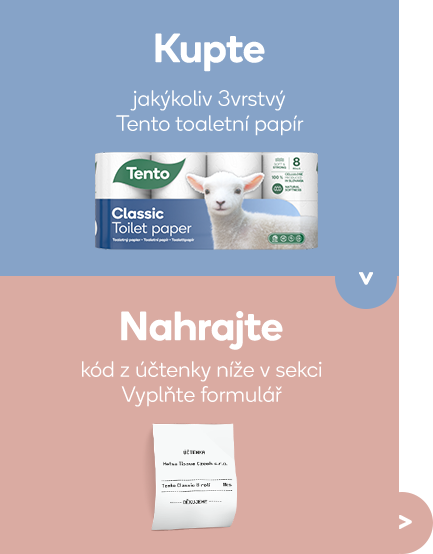
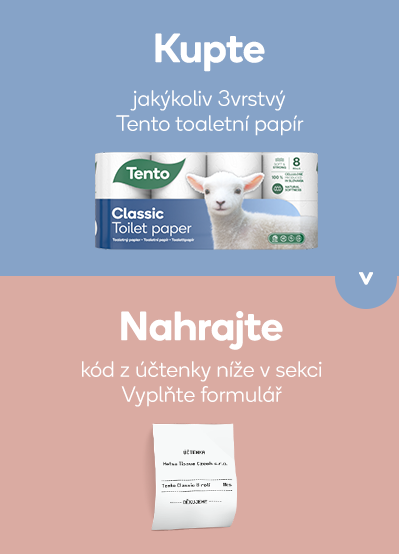
sp fix5

diff --git a/html/assets/css/style.css b/html/assets/css/style.css
@@ -29,6 +29,19 @@ header {
     font-family: 'Boing-Medium', sans-serif;
 }
 
+.arrow-pink{
+    width: auto;
+    position: absolute;
+    right: -31.5px;
+    bottom: 111px;
+}
+
+.arrow-down{
+    display: none;
+}
+.sec1-content div:first-child {
+    position: relative;
+}
 .index {
     max-width: 1920px;
     margin: auto;
@@ -38,11 +51,18 @@ header {
     width: 100%;
     position: relative;
     height: auto;
+    background-image: url(../images/header-img.png);
+    height: calc(100vh - 84px);
+    background-repeat: no-repeat;
+    background-size: cover;
+    background-position: bottom right;
 }
 
-.w-100p {
+/* .w-100p {
     width: 100%;
-}
+    height: calc(100vh - 84px);
+    object-fit: cover;
+} */
 
 .banner-text-sm {
     font-family: 'Boing-Medium', sans-serif;
@@ -439,11 +459,20 @@ tr td:nth-child(1){
     font-size: 18px;
 }
 
+.brand img{
+    width: 150px;
+}
+
 @media only screen and (max-width: 1440px) {
     .banner-text-sm{
         font-size: 37px;
         left: 10%;
         top: 100px;
+    }
+    .arrow-pink{
+        width: 56px !important;
+        right: 13px;
+        bottom: 79px;
     }
     .banner-text-bi{
         font-size: 31px;
@@ -496,33 +525,39 @@ tr td:nth-child(1){
 
 @media only screen and (max-width: 1199px) {
 
+    .arrow-pink{
+        right: 53px;
+        bottom: 23px;
+        width: 50px !important;
+    }
+
     .move img{
         width: 80%;
     }
     .banner-text-sm{
-        font-size: 28px;
-        top: 60px;
+        /* font-size: 28px;
+        top: 60px; */
     }
     .banner-text-bi{
-        font-size: 25px;
-        top: 150px;
+        /* font-size: 25px;
+        top: 150px; */
     }
     .banner-text-rd{
-        top: 195px;
+        /* top: 195px; */
     }
     .banner-text-rd div:first-child{
-        width: 130px;
+        /* width: 130px;
         height: 130px;
         font-size: 14px;
-        line-height: initial;
+        line-height: initial; */
     }
     .banner-text-rd div:last-child {
-        width: 130px;
+        /* width: 130px;
         height: 130px;
-        font-size: 14px;
+        font-size: 14px; */
     }
     .banner-text-rd {
-        width: 280px;
+        /* width: 280px; */
     }
     .banner-text-end{
         font-size: 14px;
@@ -576,6 +611,14 @@ tr td:nth-child(1){
     a img{
         width: 40px;
     }
+    .sec1-content div:first-child img{
+        width: 279px;
+    }
+    .arrow-pink{
+        bottom: 59px;
+        right: -23px;
+        width: 45px !important;
+    }
     .banner-img-next{
         bottom: 15px;
     }
@@ -602,11 +645,48 @@ tr td:nth-child(1){
     .menu{
         display: none;
     }
+    .arrow-down{
+        display: block;
+        width: 59px !important;
+        position: absolute;
+        right: 0px;
+        bottom: -27px;
+    }
+    .sec1-content div:first-child{
+        width: 370px;
+        margin: auto;
+
+    }
+    .sec1-content{
+        padding-top: 35px;
+        display: block;
+        text-align: center;
+    }
+    .sec1-content div:first-child img{
+        width: 370px;
+    }
     .header-content {
 		display: flex;
 		padding: 10px 0 0 0;
 		justify-content: space-between;
 	}
+    .sec1-next {
+        margin: auto;
+        width: 100%;
+        display: flex;
+        justify-content: center;
+    }
+    .sec1-right{
+        margin-top: 30px;
+    }
+    .sec1-right div:nth-child(5) {
+        width: 100%;
+        margin-left: 0;
+    }
+    .arrow-pink{
+        display: none;
+    }
+
     .hamburger {
         display: block;
     }
@@ -622,21 +702,18 @@ tr td:nth-child(1){
 }
 @media only screen and (max-width: 576px) {
     .banner-text-sm{
-        font-size: 21px;
-        top: 30px;
-        left: 5%;
+        font-size: 28px;
+        top: 60px;
+    }
+    
+    .banner-text-bi{
+        font-size: 22px;
+        top: 150px;
     }
     .logo-img{
         padding-left: 10px;
     }
-    .banner-text-bi{
-        font-size: 20px;
-        top: 100px;
-        left: 5%;
-    }
-    .banner-text-rd{
-        top: 170px;
-    }
+  
     .banner-text-end{
         left: 10px;
         bottom: 10px;
@@ -650,12 +727,17 @@ tr td:nth-child(1){
         overflow: hidden;
     }
     .banner-text-rd{
+        top: 260px;
         left: 0;
         width: 100%;
         justify-content: center;
     }
     .banner-img-next {
         bottom: 25px;
+    }
+    .arrow-down{
+        width: 47px!important;
+        right: 35px;
     }
     .sec1-title{
         font-size: 35px;
@@ -665,19 +747,19 @@ tr td:nth-child(1){
         display: block;
         text-align: center;
     }
-    .sec1-content div:first-child{
-        padding-left: 25px;
-    }
+
     .sec1-right{
         padding-top: 30px;
     }
+
     .sec1-next{
         margin: auto;
         width: 100%;
         display: flex;
         justify-content: center;
-
+    
     }
+
     .sec1-right div:nth-child(3) img{
         width: 40px;
     }
@@ -707,9 +789,7 @@ tr td:nth-child(1){
     .sec4 div:nth-child(3){
         font-size: 16px;
     }
-    .brand img{
-        width: 60px;
-    }
+    
     .data-in{
         display: none;
     }
@@ -751,10 +831,10 @@ tr td:nth-child(1){
         line-height: 25px;
     }
     .sec1-content{
-        padding: 30px 5%;
+        padding: 30px 0;
     }
     .sec1-content div:first-child img{
-        width: 100%;
+        width: 300px;
     }
     .sec4 div:nth-child(3){
         margin-top: 20px;

diff --git a/html/index.html b/html/index.html
@@ -51,7 +51,7 @@
         </header>
         <main class="index">
             <div class="banner-img">
-                <img class="w-100p" src="./assets/images/header-img.png">
+                <!-- <img class="w-100p" src="./assets/images/header-img.png"> -->
                 <h2 class="banner-text-sm">Vyhrajte každý týden <br> pobyt v klidu lesa v <br> hodnotě 40 000 Kč!</h2>
                 <h4 class="banner-text-bi">Nebo závěsné křeslo na zahradu.</h4>
                 <div class="banner-text-rd">
@@ -72,6 +72,8 @@
                 <div class="sec1-content">
                     <div>
                         <img src="./assets/images/Functionality.png">
+                        <img class="arrow-pink" src="./assets/images/Arrow_Pink.png">
+                        <img class="arrow-down" src="./assets/images/Arrow-down.png">
                     </div>
                     <div class="sec1-right">
                         <div>
